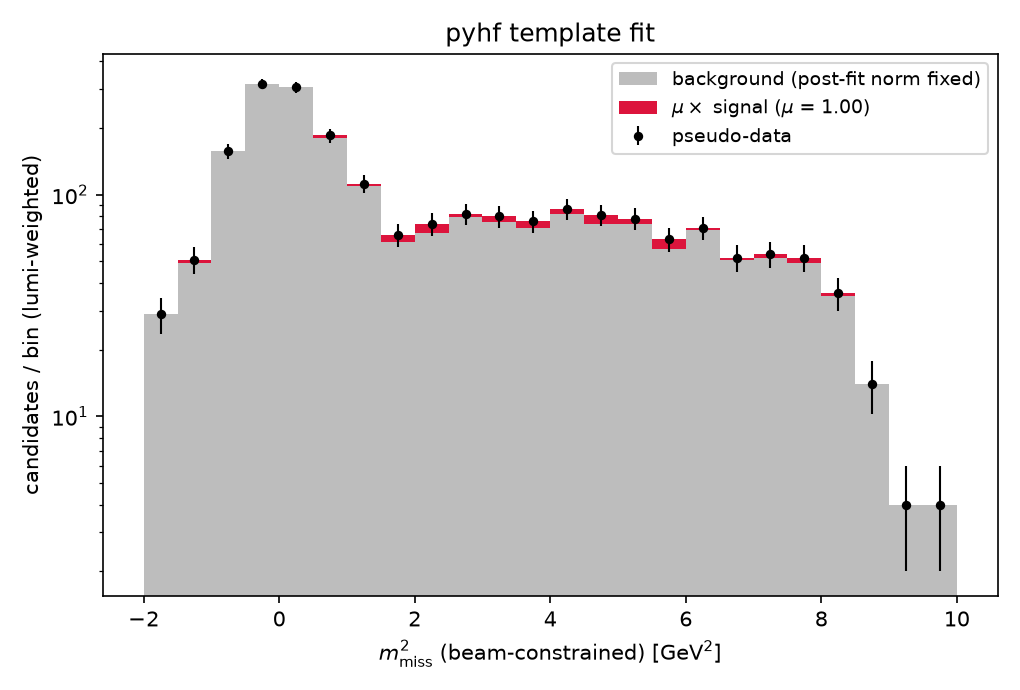
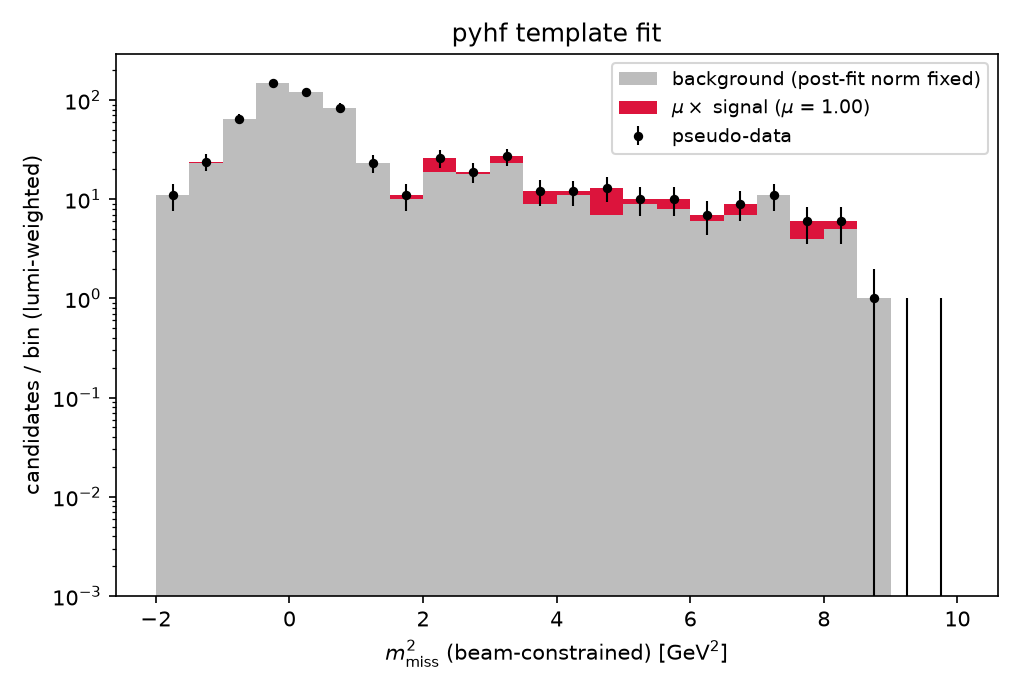
ROE tag: photon fast sim, ROE consistency variables, sensitivity gain
- fastsim/smear.py: ECL-like photon response (sigma_E/E = 2%/sqrt(E) (+) 1%,
  E > 50 MeV, same acceptance).
- make_ntuple.py / generate_continuum.py: rest-of-event branches
  e_tag_cm, m_tag, n_roe, q_roe, m2miss_roe. The ROE *direction* is
  documented as useless at the Upsilon(4S) (true |p_B| = 0.34 GeV/c is
  swamped by undetected particles; median direction error 58 deg — the
  quantitative reason real analyses need cos(theta_BY) cones or FEI).
  The ROE *energy* is powerful: e_tag_cm < 4.0 GeV improves SR S/B by x4
  by rejecting wrongly paired muons.
- Analysis scripts include the ROE energy cut. pyhf fit improves from
  BF +- 1.18% to +- 0.68% (~1.4% relative at 1 ab-1, was 2.4%).
- README: ROE section and updated sensitivity table.

diff --git a/fastsim/make_ntuple.py b/fastsim/make_ntuple.py
@@ -34,7 +34,7 @@ import pyhepmc
 import uproot
 
 sys.path.insert(0, str(Path(__file__).resolve().parent))
-from smear import DetectorConfig, detect_track
+from smear import DetectorConfig, detect_photon, detect_track
 
 B_PIDS = {511, -511}
 DST_PIDS = {413, -413}
@@ -138,6 +138,57 @@ def fox_wolfram_r2(event):
     return h2 / h0
 
 
+INVISIBLE = NEUTRINOS | {130, 2112}  # neutrinos, K_L, neutrons: not detected
+
+CHARGE = {211: 1, 321: 1, 2212: 1, 13: -1, 11: -1}  # charge by |pid| * sign(pid)
+
+
+def charge_of(pid):
+    q = CHARGE.get(abs(pid), 0)
+    return q if pid > 0 else -q
+
+
+def roe_tag_momentum(event, used_ids, cfg, rng):
+    """Rest-of-event (ROE) four-momentum: every detected stable particle
+    (smeared charged tracks + ECL-like photons) except the signal-side
+    candidates. Returns (p_tag, n_detected)."""
+    p = np.zeros(4)
+    n = 0
+    q = 0
+    for part in event.particles:
+        if part.end_vertex or part.id in used_ids:
+            continue
+        pid = abs(part.pid)
+        if pid in INVISIBLE:
+            continue
+        v = four_vec(part)
+        if pid == 22:
+            s = detect_photon(v, cfg, rng)
+        elif pid in CHARGED_STABLE:
+            s = detect_track(v, cfg, rng)
+        else:
+            continue
+        if s is not None:
+            p += s
+            n += 1
+            q += charge_of(part.pid)
+    return p, n, q
+
+
+def m2miss_roe_constrained(p_tag, pY):
+    """m2_miss with the B direction taken from the ROE: in the CM frame the
+    signal B recoils against the tag, so its direction is -p_tag(CM); its
+    energy and momentum magnitude come from the beam constraint. Robust
+    against ROE energy mismeasurement (only the direction is used)."""
+    ptag_cm = to_cm(p_tag)
+    mag = np.linalg.norm(ptag_cm[1:])
+    if mag < 1e-9:
+        return np.nan
+    direction = -ptag_cm[1:] / mag
+    pB = np.array([E_B_CM, *(P_B_MAG * direction)])
+    return minv2(pB - pY)
+
+
 def find_candidate(event):
     """First D* + charge-correlated muon pair in the event, or None.
     Returns (dst, d0_tracks, slow_pi, mu, B_or_None)."""
@@ -175,7 +226,8 @@ def main():
     rng = np.random.default_rng(seed)
 
     cols = {k: [] for k in [
-        "m2miss", "plep_star", "q2", "m_d0", "delta_m", "cos_by", "r2",
+        "m2miss", "m2miss_roe", "e_tag_cm", "m_tag", "n_roe", "q_roe",
+        "plep_star", "q2", "m_d0", "delta_m", "cos_by", "r2",
         "p_lep_lab", "costh_lep_lab", "p_dst_lab",
         "m2miss_true", "plep_star_true", "q2_true",
         "true_mode", "mode_id", "event"]}
@@ -207,6 +259,13 @@ def main():
             pMu_cm = to_cm(sm_mu)
             pY = pDst_cm + pMu_cm
             pY_mag = np.linalg.norm(pY[1:])
+            used = {t.id for t in d0_tracks} | {slow_pi.id, mu.id}
+            p_tag, n_roe, q_roe = roe_tag_momentum(event, used, cfg, rng)
+            cols["m2miss_roe"].append(m2miss_roe_constrained(p_tag, pY))
+            cols["e_tag_cm"].append(to_cm(p_tag)[0])
+            cols["m_tag"].append(minv(p_tag))
+            cols["n_roe"].append(n_roe)
+            cols["q_roe"].append(q_roe)
             cols["m2miss"].append(minv2(P_B_CM - pY))
             cols["plep_star"].append(np.linalg.norm(pMu_cm[1:]))
             cols["q2"].append(minv2(P_B_CM - pDst_cm))
@@ -237,7 +296,8 @@ def main():
             cols["mode_id"].append(mode_id)
             cols["event"].append(ievt)
 
-    arrays = {k: np.array(v, dtype=np.int32 if k in ("true_mode", "mode_id", "event")
+    arrays = {k: np.array(v, dtype=np.int32
+                          if k in ("true_mode", "mode_id", "event", "n_roe", "q_roe")
                           else np.float64) for k, v in cols.items()}
     with uproot.recreate(out_path) as f:
         f["events"] = arrays

diff --git a/generation/generate_continuum.py b/generation/generate_continuum.py
@@ -23,9 +23,10 @@ import pythia8
 import uproot
 
 sys.path.insert(0, str(Path(__file__).resolve().parent.parent / "fastsim"))
-from smear import DetectorConfig, detect_track
-from make_ntuple import (CHARGED_STABLE, NEUTRINOS, E_B_CM, M_B, P_B_CM,
-                         P_B_MAG, minv, minv2, to_cm)
+from smear import DetectorConfig, detect_photon, detect_track
+from make_ntuple import (CHARGED_STABLE, INVISIBLE, NEUTRINOS, E_B_CM, M_B,
+                         P_B_CM, P_B_MAG, charge_of, m2miss_roe_constrained,
+                         minv, minv2, to_cm)
 
 
 def four_vec(p):
@@ -102,7 +103,8 @@ def main():
     py.init()
 
     cols = {k: [] for k in [
-        "m2miss", "plep_star", "q2", "m_d0", "delta_m", "cos_by", "r2",
+        "m2miss", "m2miss_roe", "e_tag_cm", "m_tag", "n_roe", "q_roe",
+        "plep_star", "q2", "m_d0", "delta_m", "cos_by", "r2",
         "p_lep_lab", "costh_lep_lab", "p_dst_lab",
         "m2miss_true", "plep_star_true", "q2_true",
         "true_mode", "mode_id", "event"]}
@@ -134,6 +136,33 @@ def main():
         pMu_cm = to_cm(sm_mu)
         pY = pDst_cm + pMu_cm
         pY_mag = np.linalg.norm(pY[1:])
+        # rest-of-event tag (same definition as make_ntuple.roe_tag_momentum)
+        used = set(d0_tracks) | {slow_i, mu_i}
+        p_tag = np.zeros(4)
+        n_roe = q_roe = 0
+        for j in range(1, ev.size()):
+            pj = ev[j]
+            if not pj.isFinal() or j in used:
+                continue
+            pid = abs(pj.id())
+            if pid in INVISIBLE:
+                continue
+            v = four_vec(pj)
+            if pid == 22:
+                s = detect_photon(v, cfg, rng)
+            elif pid in CHARGED_STABLE:
+                s = detect_track(v, cfg, rng)
+            else:
+                continue
+            if s is not None:
+                p_tag += s
+                n_roe += 1
+                q_roe += charge_of(pj.id())
+        cols["m2miss_roe"].append(m2miss_roe_constrained(p_tag, pY))
+        cols["e_tag_cm"].append(to_cm(p_tag)[0])
+        cols["m_tag"].append(minv(p_tag))
+        cols["n_roe"].append(n_roe)
+        cols["q_roe"].append(q_roe)
         cols["m2miss"].append(minv2(P_B_CM - pY))
         cols["plep_star"].append(np.linalg.norm(pMu_cm[1:]))
         cols["q2"].append(minv2(P_B_CM - pDst_cm))
@@ -154,7 +183,8 @@ def main():
         cols["mode_id"].append(99)
         cols["event"].append(ievt)
 
-    arrays = {k: np.array(v, dtype=np.int32 if k in ("true_mode", "mode_id", "event")
+    arrays = {k: np.array(v, dtype=np.int32
+                          if k in ("true_mode", "mode_id", "event", "n_roe", "q_roe")
                           else np.float64) for k, v in cols.items()}
     with uproot.recreate(out_path) as f:
         f["events"] = arrays

diff --git a/fastsim/smear.py b/fastsim/smear.py
@@ -21,6 +21,10 @@ class DetectorConfig:
     theta_min: float = np.radians(17.0)    # polar-angle acceptance (lab)
     theta_max: float = np.radians(150.0)
     track_eff: float = 0.95                # per-track detection efficiency
+    # photons (ECL-like, used for the rest-of-event reconstruction)
+    photon_e_min: float = 0.05             # energy threshold [GeV]
+    photon_res_a: float = 0.02             # sigma_E/E = a/sqrt(E) (+) b
+    photon_res_b: float = 0.01
 
 
 def theta_lab(p4):
@@ -56,3 +60,17 @@ def detect_track(p4, cfg: DetectorConfig, rng: np.random.Generator):
     if rng.random() > cfg.track_eff:
         return None
     return smear_track(p4, cfg, rng)
+
+
+def detect_photon(p4, cfg: DetectorConfig, rng: np.random.Generator):
+    """ECL-like photon response: acceptance + energy threshold + Gaussian
+    energy smearing sigma_E/E = a/sqrt(E) (+) b, direction unchanged.
+
+    Returns the smeared (massless) four-vector, or None if undetected.
+    """
+    e = p4[0]
+    if e < cfg.photon_e_min or not in_acceptance(p4, cfg):
+        return None
+    sigma = e * np.hypot(cfg.photon_res_a / np.sqrt(e), cfg.photon_res_b)
+    e_new = max(e + sigma * rng.standard_normal(), 1e-6)
+    return (e_new / e) * p4

diff --git a/analysis/measure_bf_dsttaunu.py b/analysis/measure_bf_dsttaunu.py
@@ -35,9 +35,10 @@ M_D0, DM = 1.8648, 0.14543
 CUT_M_D0 = 0.020           # |m_d0 - M_D0| window [GeV]
 CUT_DELTA_M = 0.0025       # |delta_m - DM| window [GeV]
 CUT_R2 = 0.30              # Fox-Wolfram R2 (continuum suppression)
+E_TAG_MAX = 4.0            # ROE energy consistency (CM); np.inf disables
 M2MISS_SR = 1.5            # signal region: m2_miss > this [GeV^2]
 
-COLS = ["m2miss", "m_d0", "delta_m", "r2", "true_mode"]
+COLS = ["m2miss", "m_d0", "delta_m", "r2", "e_tag_cm", "true_mode"]
 
 
 def load(paths):
@@ -48,7 +49,7 @@ def load(paths):
 def preselect(t):
     return (np.abs(t["m_d0"] - M_D0) < CUT_M_D0) & \
            (np.abs(t["delta_m"] - DM) < CUT_DELTA_M) & \
-           (t["r2"] < CUT_R2)
+           (t["r2"] < CUT_R2) & (t["e_tag_cm"] < E_TAG_MAX)
 
 
 def main():

diff --git a/analysis/fit_m2miss.py b/analysis/fit_m2miss.py
@@ -29,9 +29,10 @@ import uproot
 
 M_D0, DM = 1.8648, 0.14543
 CUT_M_D0, CUT_DELTA_M, CUT_R2 = 0.020, 0.0025, 0.30
+E_TAG_MAX = 4.0            # ROE energy consistency (CM); np.inf disables
 BINS = np.linspace(-2.0, 10.0, 25)
 
-COLS = ["m2miss", "m_d0", "delta_m", "r2", "true_mode"]
+COLS = ["m2miss", "m_d0", "delta_m", "r2", "e_tag_cm", "true_mode"]
 
 
 def load(paths):
@@ -42,7 +43,7 @@ def load(paths):
 def preselect(t):
     return (np.abs(t["m_d0"] - M_D0) < CUT_M_D0) & \
            (np.abs(t["delta_m"] - DM) < CUT_DELTA_M) & \
-           (t["r2"] < CUT_R2)
+           (t["r2"] < CUT_R2) & (t["e_tag_cm"] < E_TAG_MAX)
 
 
 def hists(samples):

diff --git a/README.md b/README.md
@@ -200,6 +200,23 @@ suppression), `p_lep_lab`, `costh_lep_lab`, `p_dst_lab`,
 `true_mode` (1 = D\*τν, 2 = D\*μν, 0 = other B, 3 = continuum),
 `mode_id`, `event`.
 
+### Rest-of-event (ROE) tag
+
+Every detected particle outside the signal candidate — smeared charged
+tracks plus ECL-like photons (σ_E/E = 2 %/√E ⊕ 1 %, E > 50 MeV; K_L,
+neutrons and neutrinos are invisible) — forms the ROE, giving four more
+branches: `e_tag_cm`, `m_tag`, `n_roe`, `q_roe`, and `m2miss_roe`.
+
+Two instructive findings, both physical:
+- **The ROE direction is useless at the Υ(4S)** (`m2miss_roe`): the true B
+  momentum is only 0.34 GeV/c, so undetected particles dominate the tag
+  direction (median error ≈ 58°). This is exactly why real analyses use
+  the cos θ_BY cone or full tag reconstruction (FEI).
+- **The ROE energy is powerful**: for a correct signal candidate the ROE is
+  just the tag B, while a wrongly paired muon drags signal-side particles
+  into the ROE and pushes `e_tag_cm` up. The cut `e_tag_cm < 4.0 GeV`
+  improves S/B in the signal region by **×4** (0.055 → 0.22).
+
 Read them back with:
 
 ```python
@@ -348,14 +365,15 @@ python analysis/fit_m2miss.py --data data/generic_*.root \
 
 Model: μ × S + B with per-bin background uncertainties (MC statistics ⊕ a
 conservative 10 % normalization, to be replaced by proper estimates from
-published analyses). Using the full shape — the μν peak and the sidebands
-constrain the background under the signal — the uncertainty **halves**
-relative to counting:
+published analyses). The fit uses the full shape, and the ROE energy cut
+(`e_tag_cm < 4.0`) suppresses the wrong-muon combinatorial background:
 
 | Method | BF(B0 → D\*τν) | relative stat. @ 1 ab⁻¹ |
 |---|---|---|
-| cut & count | (2.77 ± 2.19) % | ~4.5 % |
-| pyhf template fit | (1.48 ± 1.18) % | **~2.4 %** |
+| cut & count, no ROE | (2.77 ± 2.19) % | ~4.5 % |
+| cut & count, + ROE energy cut | (3.14 ± 1.78) % | ~3.6 % |
+| pyhf template fit, no ROE | (1.48 ± 1.18) % | ~2.4 % |
+| pyhf template fit, + ROE energy cut | (1.48 ± 0.68) % | **~1.4 %** |
 
 (The fit's central value closes exactly by construction — the signal
 template is the truth component of the same pseudo-dataset; taking the
